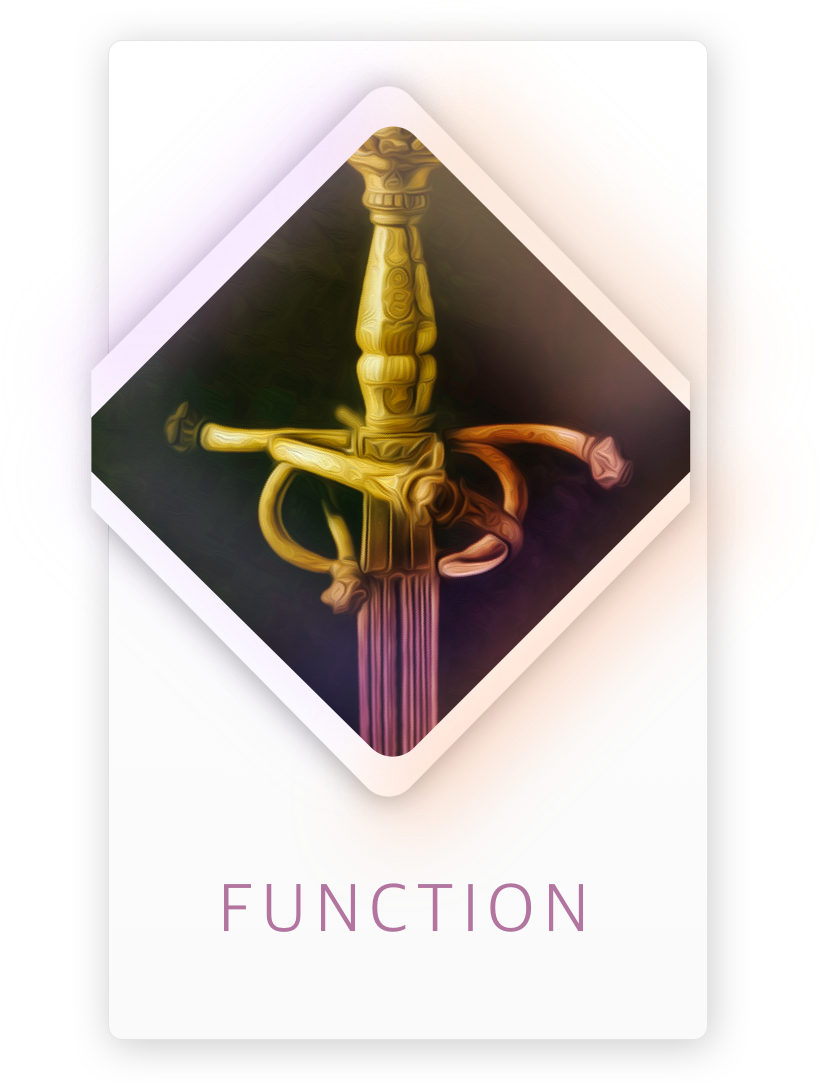
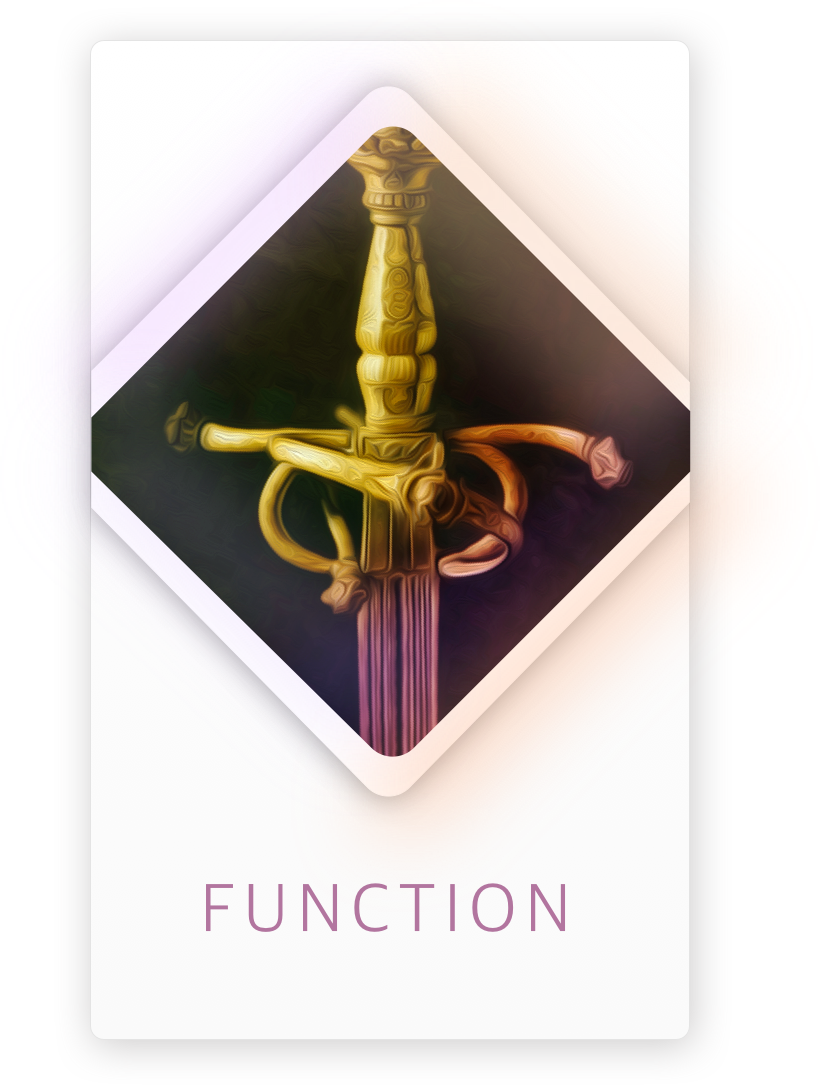
add footer and responsive design to the header

Changed region(s): [[0.2439, 0.7901, 0.7317, 0.8812], [0.8232, 0.0608, 0.8537, 0.2127]]

diff --git a/index.html b/index.html
@@ -5,12 +5,29 @@
     <meta name="viewport" content="width=device-width, initial-scale=1.0">
     <meta http-equiv="X-UA-Compatible" content="ie=edge">
     <title>Code Battle</title>
-
+    <link href="https://fonts.googleapis.com/css?family=Catamaran:100,400" rel="stylesheet">
+    <link rel="stylesheet" href="http://code.ionicframework.com/ionicons/2.0.1/css/ionicons.min.css">
     <style>
         * {
             margin: 0;
             padding: 0;
-            font-family: Arial, Helvetica, sans-serif;
+            font-family: 'Catamaran', Helvetica, Arial, sans-serif;
+        }
+
+        ul li {
+            list-style: none;
+        }
+
+        a {
+            text-decoration: none;
+        }
+
+        button:focus {
+            outline: none;
+        }
+
+        input:focus {
+            outline: none;
         }
     </style>
 </head>
@@ -22,6 +39,7 @@
     <script src="./tags/middle.tag" type="riot/tag"></script>
     <script src="./tags/info-panel.tag" type="riot/tag"></script>
     <script src="./tags/info-piece.tag" type="riot/tag"></script>
+    <script src="./tags/info-footer.tag" type="riot/tag"></script>
     <script>
         riot.mount('*')
     </script>
